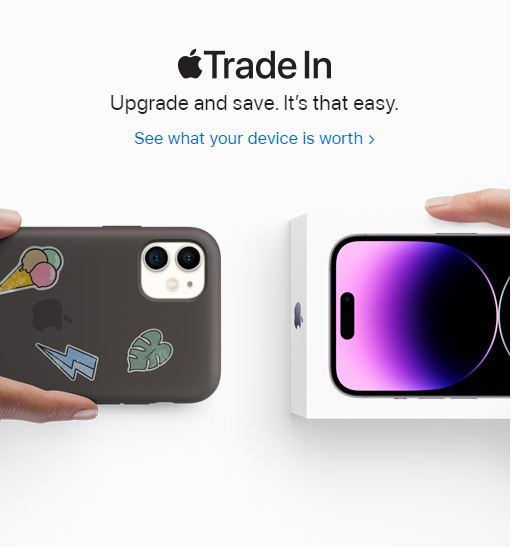
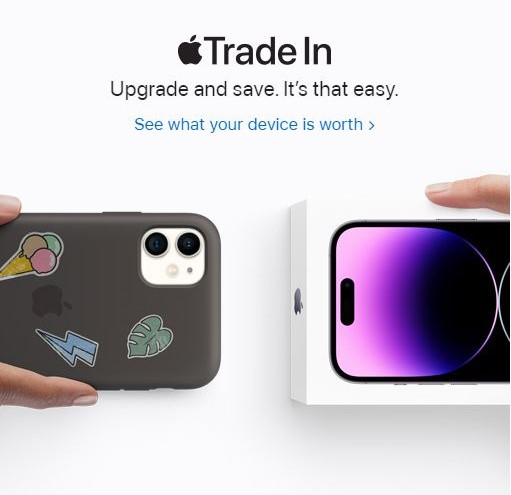
added all the div and added all the images.(all alignment is done.)

diff --git a/7_appleIndia/index.html b/7_appleIndia/index.html
@@ -102,6 +102,8 @@
         <h2>Save on Mac or iPad <br>for college.</h2>
         <p>Plus get a gift card up to $150. <sup>1</sup></p>
         <button> Shop now &gt; </button>
+        <br/><br/>
+        <br/><br/>
         <img src="student_offer.JPG" alt="Student Offer">
     </div>
 
@@ -121,6 +123,7 @@
         <br/>
         <br/>
         <br/>
+        <br/><br/>
         <img src="mac_air_15.JPG" alt="MacBook Air 15">
     </div>
 
@@ -135,16 +138,16 @@
             <button> Learn more &gt; </button>
             <button> Buy &gt; </button>
         </div>
-        
+        <br/><br/>
+        <br/>
         <img src="iphone14.JPG" alt="MacBook Air 15">
     </div>
 
 
     <!-- Adding six div for inserting the iPhoone14 Pro, iPad Pro, Watch and Vision Pro, amd Trade In, and Card -->
 
-
-    <div class="container_6_div container3">
-        <div class="box_6_div">
+    <div class="row">
+        <div class="box_6_div container1">
             <h2>iPhone 14 Pro</h2>
             <p>Pro. Beyond.</p>
             <br/>
@@ -155,11 +158,10 @@
                 <button> Buy &gt; </button>
             </div>
             <br/>
-            <br/>
-            <br/>
+            
             <img src="i14pro.JPG" alt="iPhone 14 Pro">
         </div>
-        <div class="box_6_div">
+        <div class="box_6_div container1">  
             <h2>iPad Pro</h2>
 
             <p>
@@ -168,50 +170,53 @@
             </p>
             <br/>
             
-            <button> Learn more &gt; </button>
-            <button> Buy &gt; </button>
-            <br/>
-            <br/>
-            <br/>
-            <br/>
-            <br/>
-            <br/>
+            <div class="button-container">
+                <button> Learn more &gt; </button>
+                <button> Buy &gt; </button>
+            </div>
             <br/>
             <br/>
             <br/>
             <img src="mac.JPG" alt="ipadPro">
         </div>
 
+    </div>
+<!--Closing -->
 
-        <br/>
-        <br/>
-        <br/>
-        <br/>
 
-        <div class="box_6_div">
-            
-            <img src="watch.jpg" alt="Watch">
-            
+
+
+<!-- <div class="container1"> -->
+    <div class="row">
+        <div class="box_6_div container1">
+            <img src="watch.jpg" alt="Watch">    
         </div>
-        
+    
 
-        <div class="box_6_div">
+        <div class="box_6_div container1">
             <img src="vision.jpg" alt="Vision Pro">
         </div>
 
 
-        <br/>
-        <br/>
-        <br/>
-        <br/>
+    </div>
+    <!--Closing -->
 
-        <div class="box_6_div">
+
+    <!-- <div class="container1"> -->
+        <div class="row">
+
+        <div class="box_6_div container1">
             <img src="trade.jpg" alt="Trade In">
         </div>
-        <div class="box_6_div">
+        <div class="box_6_div container1">
             <img src="card.jpg" alt="Card">
         </div>
+    
     </div>
+    <!--Closing -->
+    
+
+
 
 
 

diff --git a/7_appleIndia/styles.css b/7_appleIndia/styles.css
@@ -41,14 +41,14 @@
 }
 
 .container1 {
-    background-color: aquamarine;
+    background-color: rgb(105, 224, 141);
     display: flex;
     flex-direction: column;
     align-items: center;
     text-align: center;
     padding: 30px;
     width: 1210px;
-    height: 500px;
+    height: 600px;
     margin: 10px;
 }
 
@@ -87,17 +87,6 @@
     margin-top: 20px;
 }
 
-.container_6_div {
-    display: flex;
-    flex-wrap: wrap;
-    justify-content: space-between;
-    color: #fff;
-    width: 100%;
-    max-width: 100vw;
-    margin: 20px 0;
-    padding: 0 20px;
-}
-
 .box_6_div {
     width: calc(50% - 10px);
     margin: 5px;
@@ -133,12 +122,20 @@ p img {
 }
 
 /* Add new CSS rule to move the Watch div to a new line */
-.watch-container {
-    display: flex;
-    flex-wrap: wrap;
-    justify-content: space-between;
-    width: 100%;
-    max-width: 100vw;
-    margin: 20px 0;
-    padding: 0 20px;
+
+.container1 button {
+    padding: 10px 20px;
+    background-color: #007bff;
+    color: #fff;
+    border: none;
+    border-radius: 5px;
+    cursor: pointer;
 }
+
+.row {
+    display: flex;
+    flex-wrap: wrap; /* Wrap the children to a new line if they exceed the width */
+    justify-content: space-between; /* Distribute space evenly between children */
+    margin: 0 -10px; /* Negative margin to counteract the margin on child elements */
+}
+
